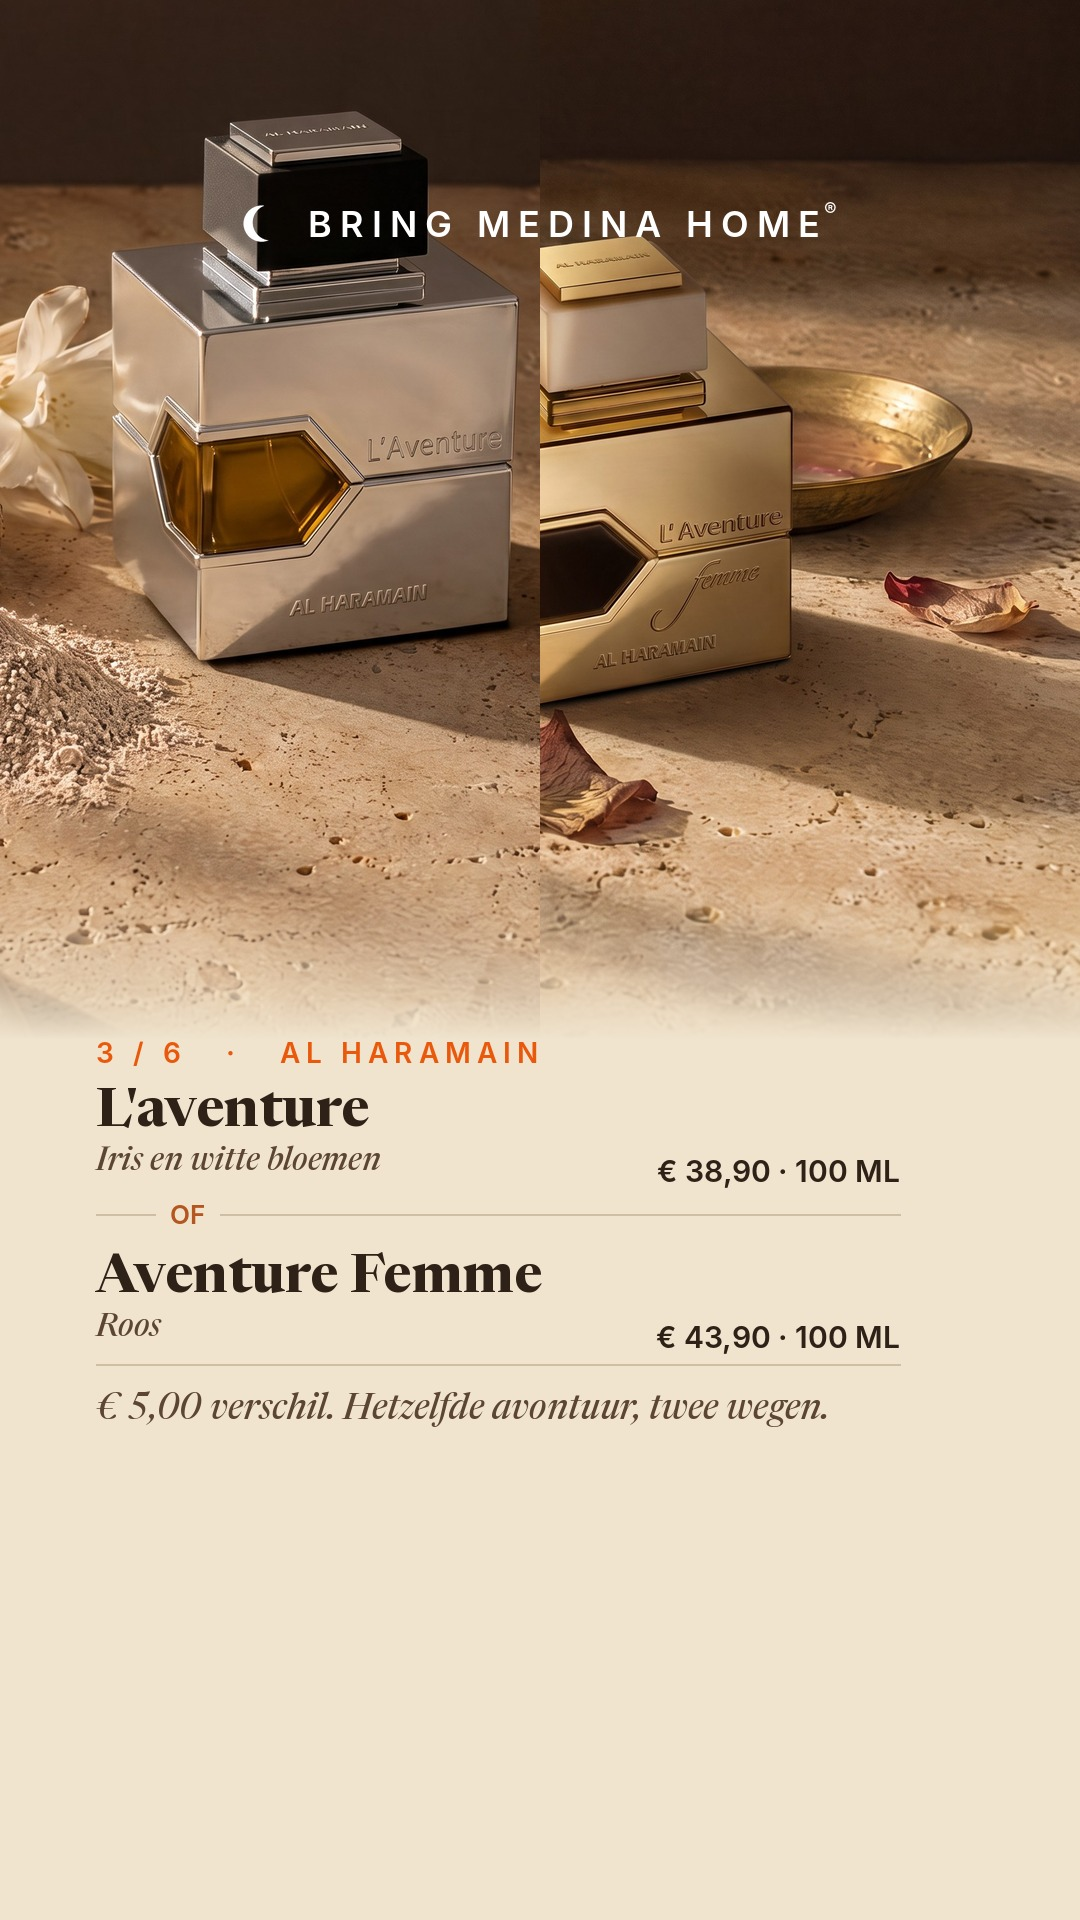
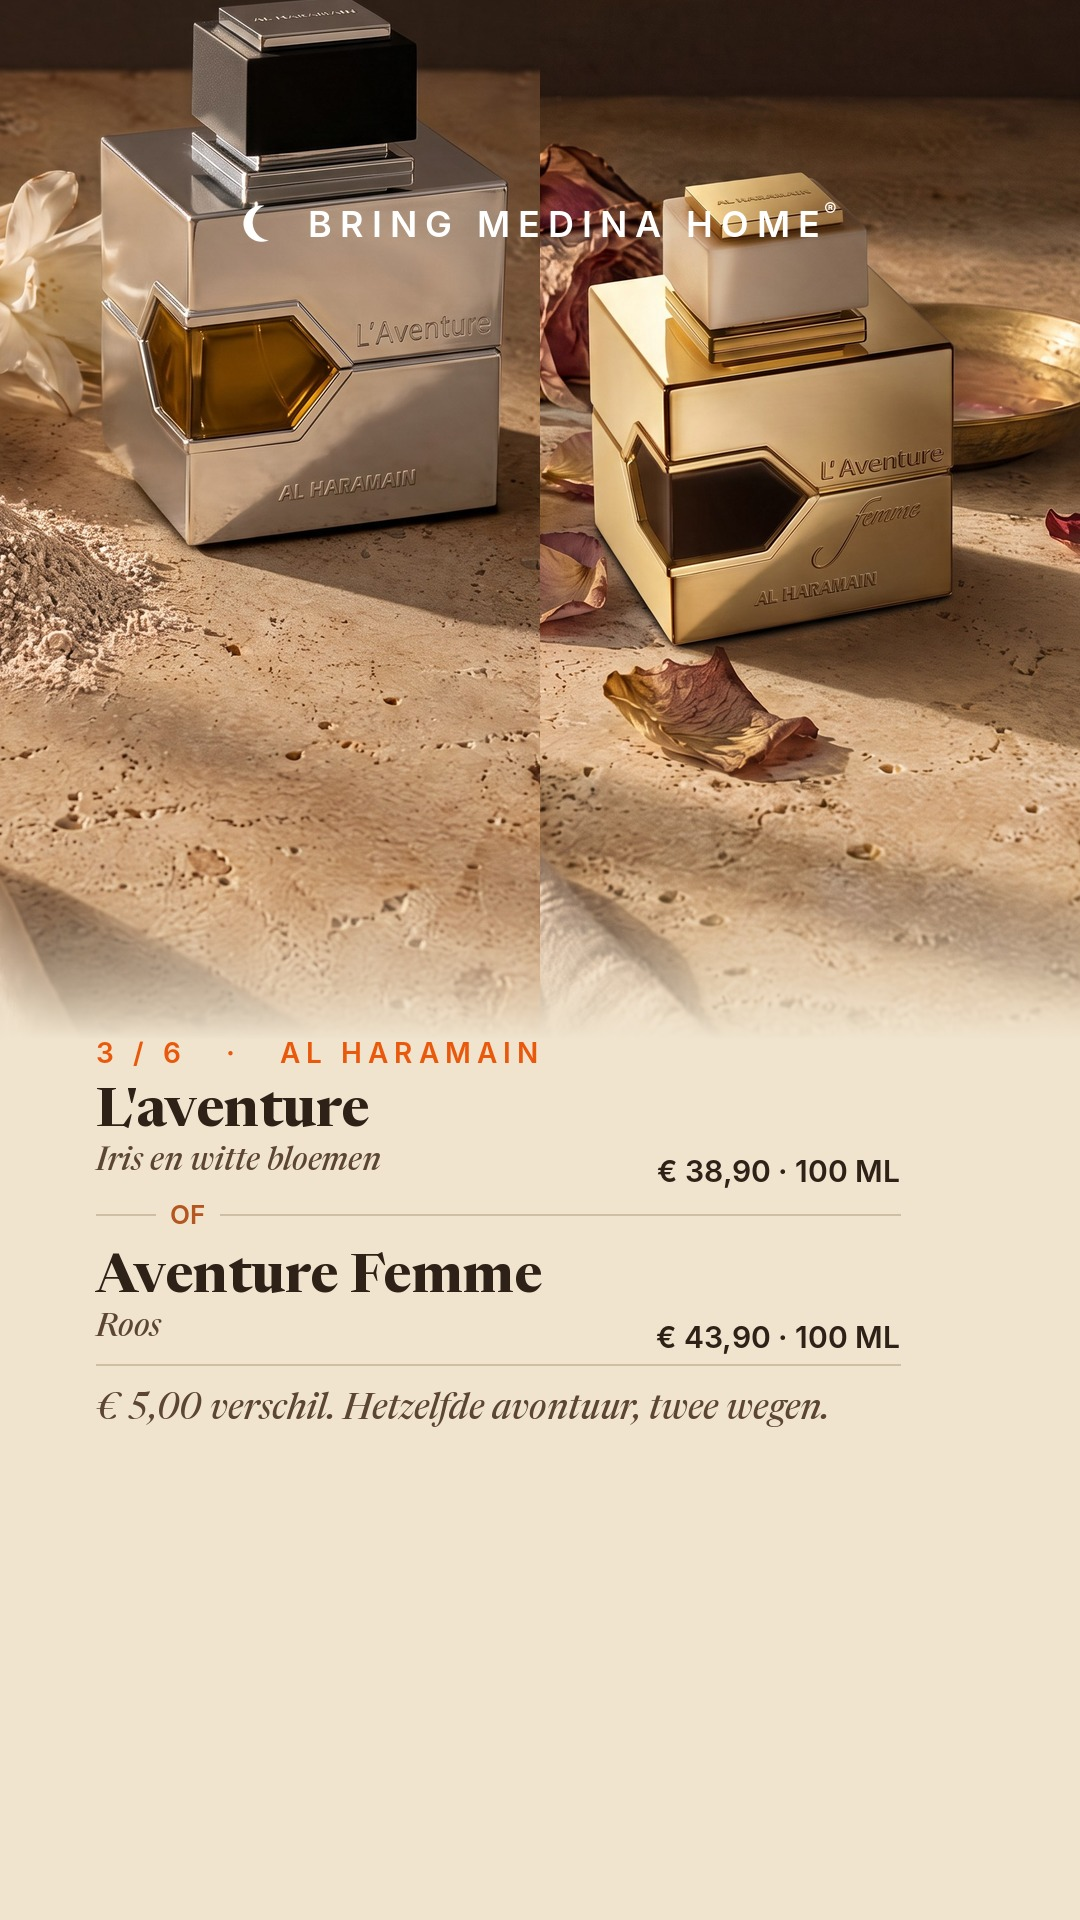
Carrousel duel 13/11 : flacons recentres dans les demi-ecrans, signature centree sur la couture
Claude-Session: https://claude.ai/code/session_01WRuYh1Ti56z8AmDfbamWmu

diff --git a/carrousels/duel13novembre/carrousel.py b/carrousels/duel13novembre/carrousel.py
@@ -168,18 +168,18 @@ def poser_signature(img, x, y, couleur, corps=30, espace=7):
 #  parce que la detection automatique attrapait le bois seche, qui est net
 #  lui aussi.
 CENTRE = {
- "6290171002338": 0.69,  # Afnan 9pm
- "6290171002345": 0.63,  # Afnan 9am
- "6291106066890": 0.70,  # Ana Abiyedh
- "6291107454412": 0.79,  # Ana Abiyedh Rouge
- "6291100139668": 0.66,  # Al Haramain L'aventure (cube argent)
- "6291100137565": 0.74,  # Al Haramain Aventure Femme (cube or)
- "6290360378053": 0.68,  # French Avenue Vulcan Feu
- "6290360378060": 0.76,  # French Avenue Vulcan Sable
- "6290362162629": 0.64,  # Gulf Orchid Mango Ice
- "6290362162643": 0.71,  # Gulf Orchid Creme Caramel
- "6085010044712": 0.71,  # Armaf Club de Nuit Intense Man
- "6294015164152": 0.73,  # Armaf Club de Nuit Iconic
+ "6290171002338": 0.707,  # Afnan 9pm
+ "6290171002345": 0.626,  # Afnan 9am
+ "6291106066890": 0.688,  # Ana Abiyedh
+ "6291107454412": 0.677,  # Ana Abiyedh Rouge
+ "6291100139668": 0.668,  # Al Haramain L'aventure (cube argent)
+ "6291100137565": 0.616,  # Al Haramain Aventure Femme (cube or)
+ "6290360378053": 0.677,  # French Avenue Vulcan Feu
+ "6290360378060": 0.668,  # French Avenue Vulcan Sable
+ "6290362162629": 0.640,  # Gulf Orchid Mango Ice
+ "6290362162643": 0.710,  # Gulf Orchid Creme Caramel
+ "6085010044712": 0.710,  # Armaf Club de Nuit Intense Man
+ "6294015164152": 0.730,  # Armaf Club de Nuit Iconic
 }
 
 #  A quelle hauteur vit le flacon, en fraction de la hauteur de la scene.
@@ -187,8 +187,8 @@ CENTRE = {
 #  sont des CUBES, plus bas et plus larges : il faut descendre la fenetre,
 #  sinon on leur coupe le pied.
 HAUTEUR = {
- "6291100139668": 0.40,  # Al Haramain L'aventure (cube argent)
- "6291100137565": 0.44,  # Al Haramain Aventure Femme (cube or)
+ "6291100139668": 0.668,  # Al Haramain L'aventure (cube argent)
+ "6291100137565": 0.616,  # Al Haramain Aventure Femme (cube or)
 }
 
 def panneau(ean, largeur, hauteur, cible=0.5):
